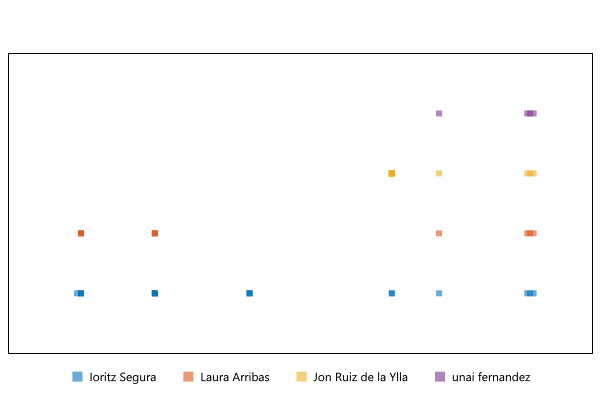
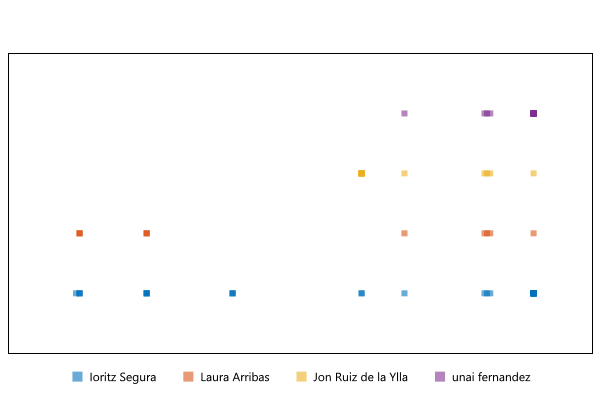
Report updated

diff --git a/Zanter/fe54f9e9/index.html b/Zanter/fe54f9e9/index.html
@@ -22,4 +22,4 @@ body
     font-family: "Segoe UI","-apple-system",BlinkMacSystemFont,Roboto,"Helvetica Neue",Helvetica,Ubuntu,Arial,sans-serif,"Apple Color Emoji","Segoe UI Emoji","Segoe UI Symbol";
     font-size: .875rem;
 }
-</style><h1>IIE</h1><div class="reportSubItem">Updated on 2023-04-19 11:29:08</div><div class="groupStats"><h2>Automobil zirkuitua</h2><div class="reportImage"><img width="350" src="0541b4df/activity-plot-Automobil-zirkuitua.png"/></div><div class="reportItem"><svg aria-labelledby="__bolt-status-131-desc" style="fill: rgba(85,163,98,1)" height="16" viewBox="0 0 16 16" width="16" xmlns="http://www.w3.org/2000/svg"><desc id="__bolt-status-131-desc">Success 20m 33s</desc><circle cx="8" cy="8" r="8"></circle><path d="M6.062 11.144l-.003-.002-1.784-1.785A.937.937 0 1 1 5.6 8.031l1.125 1.124 3.88-3.88A.937.937 0 1 1 11.931 6.6l-4.54 4.54-.004.004a.938.938 0 0 1-1.325 0z" fill="#fff"></path></svg> Eneko Agirresarobe: 25.64</div><div class="reportItem"><svg aria-labelledby="__bolt-status-104-desc" style="fill: rgba(205,74,69,1)" height="16" viewBox="0 0 16 16" width="16" xmlns="http://www.w3.org/2000/svg"><desc id="__bolt-status-104-desc">Failed 15m 19s</desc><circle cx="8" cy="8" r="8"></circle><path d="M10.984 5.004a.9.9 0 0 1 0 1.272L9.27 7.99l1.74 1.741a.9.9 0 1 1-1.272 1.273l-1.74-1.741-1.742 1.74a.9.9 0 1 1-1.272-1.272l1.74-1.74-1.713-1.714a.9.9 0 0 1 1.273-1.273l1.713 1.713 1.714-1.713a.9.9 0 0 1 1.273 0z" fill="#fff"></path></svg> id0ia: 4.42</div><div class="reportItem"><svg aria-labelledby="__bolt-status-131-desc" style="fill: rgba(85,163,98,1)" height="16" viewBox="0 0 16 16" width="16" xmlns="http://www.w3.org/2000/svg"><desc id="__bolt-status-131-desc">Success 20m 33s</desc><circle cx="8" cy="8" r="8"></circle><path d="M6.062 11.144l-.003-.002-1.784-1.785A.937.937 0 1 1 5.6 8.031l1.125 1.124 3.88-3.88A.937.937 0 1 1 11.931 6.6l-4.54 4.54-.004.004a.938.938 0 0 1-1.325 0z" fill="#fff"></path></svg> Eritz Campos: 69.94</div><br/><br/><br/><br/><br/><br/><br/><br/></div><div class="groupStats"><h2>Golf zelaia</h2><div class="reportImage"><img width="350" src="fdd45fe1/activity-plot-Golf-zelaia.png"/></div><div class="reportItem"><svg aria-labelledby="__bolt-status-131-desc" style="fill: rgba(85,163,98,1)" height="16" viewBox="0 0 16 16" width="16" xmlns="http://www.w3.org/2000/svg"><desc id="__bolt-status-131-desc">Success 20m 33s</desc><circle cx="8" cy="8" r="8"></circle><path d="M6.062 11.144l-.003-.002-1.784-1.785A.937.937 0 1 1 5.6 8.031l1.125 1.124 3.88-3.88A.937.937 0 1 1 11.931 6.6l-4.54 4.54-.004.004a.938.938 0 0 1-1.325 0z" fill="#fff"></path></svg> mikel goiogana: 51.22</div><div class="reportItem"><svg aria-labelledby="__bolt-status-104-desc" style="fill: rgba(205,74,69,1)" height="16" viewBox="0 0 16 16" width="16" xmlns="http://www.w3.org/2000/svg"><desc id="__bolt-status-104-desc">Failed 15m 19s</desc><circle cx="8" cy="8" r="8"></circle><path d="M10.984 5.004a.9.9 0 0 1 0 1.272L9.27 7.99l1.74 1.741a.9.9 0 1 1-1.272 1.273l-1.74-1.741-1.742 1.74a.9.9 0 1 1-1.272-1.272l1.74-1.74-1.713-1.714a.9.9 0 0 1 1.273-1.273l1.713 1.713 1.714-1.713a.9.9 0 0 1 1.273 0z" fill="#fff"></path></svg> Mikel MTZ ZUAZO: 4.77</div><div class="reportItem"><svg aria-labelledby="__bolt-status-131-desc" style="fill: rgba(85,163,98,1)" height="16" viewBox="0 0 16 16" width="16" xmlns="http://www.w3.org/2000/svg"><desc id="__bolt-status-131-desc">Success 20m 33s</desc><circle cx="8" cy="8" r="8"></circle><path d="M6.062 11.144l-.003-.002-1.784-1.785A.937.937 0 1 1 5.6 8.031l1.125 1.124 3.88-3.88A.937.937 0 1 1 11.931 6.6l-4.54 4.54-.004.004a.938.938 0 0 1-1.325 0z" fill="#fff"></path></svg> Ander Viteri: 44.01</div><br/><br/><br/><br/><br/><br/><br/><br/></div><div class="groupStats"><h2>Kontzertu-gunea Karrantzan</h2><div class="reportImage"><img width="350" src="666b7f03/activity-plot-Kontzertu-gunea-Karrantzan.png"/></div><div class="reportItem"><svg aria-labelledby="__bolt-status-131-desc" style="fill: rgba(85,163,98,1)" height="16" viewBox="0 0 16 16" width="16" xmlns="http://www.w3.org/2000/svg"><desc id="__bolt-status-131-desc">Success 20m 33s</desc><circle cx="8" cy="8" r="8"></circle><path d="M6.062 11.144l-.003-.002-1.784-1.785A.937.937 0 1 1 5.6 8.031l1.125 1.124 3.88-3.88A.937.937 0 1 1 11.931 6.6l-4.54 4.54-.004.004a.938.938 0 0 1-1.325 0z" fill="#fff"></path></svg> Ioritz Segura: 8.97</div><div class="reportItem"><svg aria-labelledby="__bolt-status-131-desc" style="fill: rgba(85,163,98,1)" height="16" viewBox="0 0 16 16" width="16" xmlns="http://www.w3.org/2000/svg"><desc id="__bolt-status-131-desc">Success 20m 33s</desc><circle cx="8" cy="8" r="8"></circle><path d="M6.062 11.144l-.003-.002-1.784-1.785A.937.937 0 1 1 5.6 8.031l1.125 1.124 3.88-3.88A.937.937 0 1 1 11.931 6.6l-4.54 4.54-.004.004a.938.938 0 0 1-1.325 0z" fill="#fff"></path></svg> Laura Arribas: 22.23</div><div class="reportItem"><svg aria-labelledby="__bolt-status-131-desc" style="fill: rgba(85,163,98,1)" height="16" viewBox="0 0 16 16" width="16" xmlns="http://www.w3.org/2000/svg"><desc id="__bolt-status-131-desc">Success 20m 33s</desc><circle cx="8" cy="8" r="8"></circle><path d="M6.062 11.144l-.003-.002-1.784-1.785A.937.937 0 1 1 5.6 8.031l1.125 1.124 3.88-3.88A.937.937 0 1 1 11.931 6.6l-4.54 4.54-.004.004a.938.938 0 0 1-1.325 0z" fill="#fff"></path></svg> Jon Ruiz de la Ylla: 59.14</div><div class="reportItem"><svg aria-labelledby="__bolt-status-131-desc" style="fill: rgba(85,163,98,1)" height="16" viewBox="0 0 16 16" width="16" xmlns="http://www.w3.org/2000/svg"><desc id="__bolt-status-131-desc">Success 20m 33s</desc><circle cx="8" cy="8" r="8"></circle><path d="M6.062 11.144l-.003-.002-1.784-1.785A.937.937 0 1 1 5.6 8.031l1.125 1.124 3.88-3.88A.937.937 0 1 1 11.931 6.6l-4.54 4.54-.004.004a.938.938 0 0 1-1.325 0z" fill="#fff"></path></svg> unai fernandez: 9.67</div><br/><br/><br/><br/><br/><br/><br/><br/></div></body></html>
+</style><h1>IIE</h1><div class="reportSubItem">Updated on 2023-05-04 08:47:26</div><div class="groupStats"><h2>Automobil zirkuitua</h2><div class="reportImage"><img width="350" src="0541b4df/activity-plot-Automobil-zirkuitua.png"/></div><div class="reportItem"><svg aria-labelledby="__bolt-status-131-desc" style="fill: rgba(85,163,98,1)" height="16" viewBox="0 0 16 16" width="16" xmlns="http://www.w3.org/2000/svg"><desc id="__bolt-status-131-desc">Success 20m 33s</desc><circle cx="8" cy="8" r="8"></circle><path d="M6.062 11.144l-.003-.002-1.784-1.785A.937.937 0 1 1 5.6 8.031l1.125 1.124 3.88-3.88A.937.937 0 1 1 11.931 6.6l-4.54 4.54-.004.004a.938.938 0 0 1-1.325 0z" fill="#fff"></path></svg> Eneko Agirresarobe: 24.9</div><div class="reportItem"><svg aria-labelledby="__bolt-status-104-desc" style="fill: rgba(205,74,69,1)" height="16" viewBox="0 0 16 16" width="16" xmlns="http://www.w3.org/2000/svg"><desc id="__bolt-status-104-desc">Failed 15m 19s</desc><circle cx="8" cy="8" r="8"></circle><path d="M10.984 5.004a.9.9 0 0 1 0 1.272L9.27 7.99l1.74 1.741a.9.9 0 1 1-1.272 1.273l-1.74-1.741-1.742 1.74a.9.9 0 1 1-1.272-1.272l1.74-1.74-1.713-1.714a.9.9 0 0 1 1.273-1.273l1.713 1.713 1.714-1.713a.9.9 0 0 1 1.273 0z" fill="#fff"></path></svg> id0ia: 2.9</div><div class="reportItem"><svg aria-labelledby="__bolt-status-131-desc" style="fill: rgba(85,163,98,1)" height="16" viewBox="0 0 16 16" width="16" xmlns="http://www.w3.org/2000/svg"><desc id="__bolt-status-131-desc">Success 20m 33s</desc><circle cx="8" cy="8" r="8"></circle><path d="M6.062 11.144l-.003-.002-1.784-1.785A.937.937 0 1 1 5.6 8.031l1.125 1.124 3.88-3.88A.937.937 0 1 1 11.931 6.6l-4.54 4.54-.004.004a.938.938 0 0 1-1.325 0z" fill="#fff"></path></svg> Eritz Campos: 72.21</div><br/><br/><br/><br/><br/><br/><br/><br/></div><div class="groupStats"><h2>Golf zelaia</h2><div class="reportImage"><img width="350" src="fdd45fe1/activity-plot-Golf-zelaia.png"/></div><div class="reportItem"><svg aria-labelledby="__bolt-status-131-desc" style="fill: rgba(85,163,98,1)" height="16" viewBox="0 0 16 16" width="16" xmlns="http://www.w3.org/2000/svg"><desc id="__bolt-status-131-desc">Success 20m 33s</desc><circle cx="8" cy="8" r="8"></circle><path d="M6.062 11.144l-.003-.002-1.784-1.785A.937.937 0 1 1 5.6 8.031l1.125 1.124 3.88-3.88A.937.937 0 1 1 11.931 6.6l-4.54 4.54-.004.004a.938.938 0 0 1-1.325 0z" fill="#fff"></path></svg> mikel goiogana: 34.09</div><div class="reportItem"><svg aria-labelledby="__bolt-status-104-desc" style="fill: rgba(205,74,69,1)" height="16" viewBox="0 0 16 16" width="16" xmlns="http://www.w3.org/2000/svg"><desc id="__bolt-status-104-desc">Failed 15m 19s</desc><circle cx="8" cy="8" r="8"></circle><path d="M10.984 5.004a.9.9 0 0 1 0 1.272L9.27 7.99l1.74 1.741a.9.9 0 1 1-1.272 1.273l-1.74-1.741-1.742 1.74a.9.9 0 1 1-1.272-1.272l1.74-1.74-1.713-1.714a.9.9 0 0 1 1.273-1.273l1.713 1.713 1.714-1.713a.9.9 0 0 1 1.273 0z" fill="#fff"></path></svg> Mikel MTZ ZUAZO: 2.78</div><div class="reportItem"><svg aria-labelledby="__bolt-status-131-desc" style="fill: rgba(85,163,98,1)" height="16" viewBox="0 0 16 16" width="16" xmlns="http://www.w3.org/2000/svg"><desc id="__bolt-status-131-desc">Success 20m 33s</desc><circle cx="8" cy="8" r="8"></circle><path d="M6.062 11.144l-.003-.002-1.784-1.785A.937.937 0 1 1 5.6 8.031l1.125 1.124 3.88-3.88A.937.937 0 1 1 11.931 6.6l-4.54 4.54-.004.004a.938.938 0 0 1-1.325 0z" fill="#fff"></path></svg> Ander Viteri: 62.9</div><div class="reportItem"><svg aria-labelledby="__bolt-status-104-desc" style="fill: rgba(205,74,69,1)" height="16" viewBox="0 0 16 16" width="16" xmlns="http://www.w3.org/2000/svg"><desc id="__bolt-status-104-desc">Failed 15m 19s</desc><circle cx="8" cy="8" r="8"></circle><path d="M10.984 5.004a.9.9 0 0 1 0 1.272L9.27 7.99l1.74 1.741a.9.9 0 1 1-1.272 1.273l-1.74-1.741-1.742 1.74a.9.9 0 1 1-1.272-1.272l1.74-1.74-1.713-1.714a.9.9 0 0 1 1.273-1.273l1.713 1.713 1.714-1.713a.9.9 0 0 1 1.273 0z" fill="#fff"></path></svg> ibai llosa garcia: 0.22</div><br/><br/><br/><br/><br/><br/><br/><br/></div><div class="groupStats"><h2>Kontzertu-gunea Karrantzan</h2><div class="reportImage"><img width="350" src="666b7f03/activity-plot-Kontzertu-gunea-Karrantzan.png"/></div><div class="reportItem"><svg aria-labelledby="__bolt-status-131-desc" style="fill: rgba(85,163,98,1)" height="16" viewBox="0 0 16 16" width="16" xmlns="http://www.w3.org/2000/svg"><desc id="__bolt-status-131-desc">Success 20m 33s</desc><circle cx="8" cy="8" r="8"></circle><path d="M6.062 11.144l-.003-.002-1.784-1.785A.937.937 0 1 1 5.6 8.031l1.125 1.124 3.88-3.88A.937.937 0 1 1 11.931 6.6l-4.54 4.54-.004.004a.938.938 0 0 1-1.325 0z" fill="#fff"></path></svg> Ioritz Segura: 8.09</div><div class="reportItem"><svg aria-labelledby="__bolt-status-131-desc" style="fill: rgba(85,163,98,1)" height="16" viewBox="0 0 16 16" width="16" xmlns="http://www.w3.org/2000/svg"><desc id="__bolt-status-131-desc">Success 20m 33s</desc><circle cx="8" cy="8" r="8"></circle><path d="M6.062 11.144l-.003-.002-1.784-1.785A.937.937 0 1 1 5.6 8.031l1.125 1.124 3.88-3.88A.937.937 0 1 1 11.931 6.6l-4.54 4.54-.004.004a.938.938 0 0 1-1.325 0z" fill="#fff"></path></svg> Laura Arribas: 35.5</div><div class="reportItem"><svg aria-labelledby="__bolt-status-131-desc" style="fill: rgba(85,163,98,1)" height="16" viewBox="0 0 16 16" width="16" xmlns="http://www.w3.org/2000/svg"><desc id="__bolt-status-131-desc">Success 20m 33s</desc><circle cx="8" cy="8" r="8"></circle><path d="M6.062 11.144l-.003-.002-1.784-1.785A.937.937 0 1 1 5.6 8.031l1.125 1.124 3.88-3.88A.937.937 0 1 1 11.931 6.6l-4.54 4.54-.004.004a.938.938 0 0 1-1.325 0z" fill="#fff"></path></svg> Jon Ruiz de la Ylla: 47.56</div><div class="reportItem"><svg aria-labelledby="__bolt-status-131-desc" style="fill: rgba(85,163,98,1)" height="16" viewBox="0 0 16 16" width="16" xmlns="http://www.w3.org/2000/svg"><desc id="__bolt-status-131-desc">Success 20m 33s</desc><circle cx="8" cy="8" r="8"></circle><path d="M6.062 11.144l-.003-.002-1.784-1.785A.937.937 0 1 1 5.6 8.031l1.125 1.124 3.88-3.88A.937.937 0 1 1 11.931 6.6l-4.54 4.54-.004.004a.938.938 0 0 1-1.325 0z" fill="#fff"></path></svg> unai fernandez: 8.86</div><br/><br/><br/><br/><br/><br/><br/><br/></div></body></html>

diff --git a/Zanter/fe54f9e9/666b7f03/index.html b/Zanter/fe54f9e9/666b7f03/index.html
@@ -22,4 +22,4 @@ body
     font-family: "Segoe UI","-apple-system",BlinkMacSystemFont,Roboto,"Helvetica Neue",Helvetica,Ubuntu,Arial,sans-serif,"Apple Color Emoji","Segoe UI Emoji","Segoe UI Symbol";
     font-size: .875rem;
 }
-</style><h1>IIE</h1><div class="reportSubItem">Updated on 2023-04-19 11:29:08</div><div class="groupStats"><h2>Kontzertu-gunea Karrantzan</h2><div class="reportImage"><img width="350" src="activity-plot-Kontzertu-gunea-Karrantzan.png"/></div><div class="reportItem"><svg aria-labelledby="__bolt-status-131-desc" style="fill: rgba(85,163,98,1)" height="16" viewBox="0 0 16 16" width="16" xmlns="http://www.w3.org/2000/svg"><desc id="__bolt-status-131-desc">Success 20m 33s</desc><circle cx="8" cy="8" r="8"></circle><path d="M6.062 11.144l-.003-.002-1.784-1.785A.937.937 0 1 1 5.6 8.031l1.125 1.124 3.88-3.88A.937.937 0 1 1 11.931 6.6l-4.54 4.54-.004.004a.938.938 0 0 1-1.325 0z" fill="#fff"></path></svg> Ioritz Segura: 8.97</div><div class="reportItem"><svg aria-labelledby="__bolt-status-131-desc" style="fill: rgba(85,163,98,1)" height="16" viewBox="0 0 16 16" width="16" xmlns="http://www.w3.org/2000/svg"><desc id="__bolt-status-131-desc">Success 20m 33s</desc><circle cx="8" cy="8" r="8"></circle><path d="M6.062 11.144l-.003-.002-1.784-1.785A.937.937 0 1 1 5.6 8.031l1.125 1.124 3.88-3.88A.937.937 0 1 1 11.931 6.6l-4.54 4.54-.004.004a.938.938 0 0 1-1.325 0z" fill="#fff"></path></svg> Laura Arribas: 22.23</div><div class="reportItem"><svg aria-labelledby="__bolt-status-131-desc" style="fill: rgba(85,163,98,1)" height="16" viewBox="0 0 16 16" width="16" xmlns="http://www.w3.org/2000/svg"><desc id="__bolt-status-131-desc">Success 20m 33s</desc><circle cx="8" cy="8" r="8"></circle><path d="M6.062 11.144l-.003-.002-1.784-1.785A.937.937 0 1 1 5.6 8.031l1.125 1.124 3.88-3.88A.937.937 0 1 1 11.931 6.6l-4.54 4.54-.004.004a.938.938 0 0 1-1.325 0z" fill="#fff"></path></svg> Jon Ruiz de la Ylla: 59.14</div><div class="reportItem"><svg aria-labelledby="__bolt-status-131-desc" style="fill: rgba(85,163,98,1)" height="16" viewBox="0 0 16 16" width="16" xmlns="http://www.w3.org/2000/svg"><desc id="__bolt-status-131-desc">Success 20m 33s</desc><circle cx="8" cy="8" r="8"></circle><path d="M6.062 11.144l-.003-.002-1.784-1.785A.937.937 0 1 1 5.6 8.031l1.125 1.124 3.88-3.88A.937.937 0 1 1 11.931 6.6l-4.54 4.54-.004.004a.938.938 0 0 1-1.325 0z" fill="#fff"></path></svg> unai fernandez: 9.67</div><br/><br/><br/><br/><br/><br/><br/><br/></div></body></html>
+</style><h1>IIE</h1><div class="reportSubItem">Updated on 2023-05-04 08:47:26</div><div class="groupStats"><h2>Kontzertu-gunea Karrantzan</h2><div class="reportImage"><img width="350" src="activity-plot-Kontzertu-gunea-Karrantzan.png"/></div><div class="reportItem"><svg aria-labelledby="__bolt-status-131-desc" style="fill: rgba(85,163,98,1)" height="16" viewBox="0 0 16 16" width="16" xmlns="http://www.w3.org/2000/svg"><desc id="__bolt-status-131-desc">Success 20m 33s</desc><circle cx="8" cy="8" r="8"></circle><path d="M6.062 11.144l-.003-.002-1.784-1.785A.937.937 0 1 1 5.6 8.031l1.125 1.124 3.88-3.88A.937.937 0 1 1 11.931 6.6l-4.54 4.54-.004.004a.938.938 0 0 1-1.325 0z" fill="#fff"></path></svg> Ioritz Segura: 8.09</div><div class="reportItem"><svg aria-labelledby="__bolt-status-131-desc" style="fill: rgba(85,163,98,1)" height="16" viewBox="0 0 16 16" width="16" xmlns="http://www.w3.org/2000/svg"><desc id="__bolt-status-131-desc">Success 20m 33s</desc><circle cx="8" cy="8" r="8"></circle><path d="M6.062 11.144l-.003-.002-1.784-1.785A.937.937 0 1 1 5.6 8.031l1.125 1.124 3.88-3.88A.937.937 0 1 1 11.931 6.6l-4.54 4.54-.004.004a.938.938 0 0 1-1.325 0z" fill="#fff"></path></svg> Laura Arribas: 35.5</div><div class="reportItem"><svg aria-labelledby="__bolt-status-131-desc" style="fill: rgba(85,163,98,1)" height="16" viewBox="0 0 16 16" width="16" xmlns="http://www.w3.org/2000/svg"><desc id="__bolt-status-131-desc">Success 20m 33s</desc><circle cx="8" cy="8" r="8"></circle><path d="M6.062 11.144l-.003-.002-1.784-1.785A.937.937 0 1 1 5.6 8.031l1.125 1.124 3.88-3.88A.937.937 0 1 1 11.931 6.6l-4.54 4.54-.004.004a.938.938 0 0 1-1.325 0z" fill="#fff"></path></svg> Jon Ruiz de la Ylla: 47.56</div><div class="reportItem"><svg aria-labelledby="__bolt-status-131-desc" style="fill: rgba(85,163,98,1)" height="16" viewBox="0 0 16 16" width="16" xmlns="http://www.w3.org/2000/svg"><desc id="__bolt-status-131-desc">Success 20m 33s</desc><circle cx="8" cy="8" r="8"></circle><path d="M6.062 11.144l-.003-.002-1.784-1.785A.937.937 0 1 1 5.6 8.031l1.125 1.124 3.88-3.88A.937.937 0 1 1 11.931 6.6l-4.54 4.54-.004.004a.938.938 0 0 1-1.325 0z" fill="#fff"></path></svg> unai fernandez: 8.86</div><br/><br/><br/><br/><br/><br/><br/><br/></div></body></html>

diff --git a/Zanter/fe54f9e9/fdd45fe1/index.html b/Zanter/fe54f9e9/fdd45fe1/index.html
@@ -22,4 +22,4 @@ body
     font-family: "Segoe UI","-apple-system",BlinkMacSystemFont,Roboto,"Helvetica Neue",Helvetica,Ubuntu,Arial,sans-serif,"Apple Color Emoji","Segoe UI Emoji","Segoe UI Symbol";
     font-size: .875rem;
 }
-</style><h1>IIE</h1><div class="reportSubItem">Updated on 2023-04-19 11:29:01</div><div class="groupStats"><h2>Golf zelaia</h2><div class="reportImage"><img width="350" src="activity-plot-Golf-zelaia.png"/></div><div class="reportItem"><svg aria-labelledby="__bolt-status-131-desc" style="fill: rgba(85,163,98,1)" height="16" viewBox="0 0 16 16" width="16" xmlns="http://www.w3.org/2000/svg"><desc id="__bolt-status-131-desc">Success 20m 33s</desc><circle cx="8" cy="8" r="8"></circle><path d="M6.062 11.144l-.003-.002-1.784-1.785A.937.937 0 1 1 5.6 8.031l1.125 1.124 3.88-3.88A.937.937 0 1 1 11.931 6.6l-4.54 4.54-.004.004a.938.938 0 0 1-1.325 0z" fill="#fff"></path></svg> mikel goiogana: 51.22</div><div class="reportItem"><svg aria-labelledby="__bolt-status-104-desc" style="fill: rgba(205,74,69,1)" height="16" viewBox="0 0 16 16" width="16" xmlns="http://www.w3.org/2000/svg"><desc id="__bolt-status-104-desc">Failed 15m 19s</desc><circle cx="8" cy="8" r="8"></circle><path d="M10.984 5.004a.9.9 0 0 1 0 1.272L9.27 7.99l1.74 1.741a.9.9 0 1 1-1.272 1.273l-1.74-1.741-1.742 1.74a.9.9 0 1 1-1.272-1.272l1.74-1.74-1.713-1.714a.9.9 0 0 1 1.273-1.273l1.713 1.713 1.714-1.713a.9.9 0 0 1 1.273 0z" fill="#fff"></path></svg> Mikel MTZ ZUAZO: 4.77</div><div class="reportItem"><svg aria-labelledby="__bolt-status-131-desc" style="fill: rgba(85,163,98,1)" height="16" viewBox="0 0 16 16" width="16" xmlns="http://www.w3.org/2000/svg"><desc id="__bolt-status-131-desc">Success 20m 33s</desc><circle cx="8" cy="8" r="8"></circle><path d="M6.062 11.144l-.003-.002-1.784-1.785A.937.937 0 1 1 5.6 8.031l1.125 1.124 3.88-3.88A.937.937 0 1 1 11.931 6.6l-4.54 4.54-.004.004a.938.938 0 0 1-1.325 0z" fill="#fff"></path></svg> Ander Viteri: 44.01</div><br/><br/><br/><br/><br/><br/><br/><br/></div></body></html>
+</style><h1>IIE</h1><div class="reportSubItem">Updated on 2023-05-04 08:47:17</div><div class="groupStats"><h2>Golf zelaia</h2><div class="reportImage"><img width="350" src="activity-plot-Golf-zelaia.png"/></div><div class="reportItem"><svg aria-labelledby="__bolt-status-131-desc" style="fill: rgba(85,163,98,1)" height="16" viewBox="0 0 16 16" width="16" xmlns="http://www.w3.org/2000/svg"><desc id="__bolt-status-131-desc">Success 20m 33s</desc><circle cx="8" cy="8" r="8"></circle><path d="M6.062 11.144l-.003-.002-1.784-1.785A.937.937 0 1 1 5.6 8.031l1.125 1.124 3.88-3.88A.937.937 0 1 1 11.931 6.6l-4.54 4.54-.004.004a.938.938 0 0 1-1.325 0z" fill="#fff"></path></svg> mikel goiogana: 34.09</div><div class="reportItem"><svg aria-labelledby="__bolt-status-104-desc" style="fill: rgba(205,74,69,1)" height="16" viewBox="0 0 16 16" width="16" xmlns="http://www.w3.org/2000/svg"><desc id="__bolt-status-104-desc">Failed 15m 19s</desc><circle cx="8" cy="8" r="8"></circle><path d="M10.984 5.004a.9.9 0 0 1 0 1.272L9.27 7.99l1.74 1.741a.9.9 0 1 1-1.272 1.273l-1.74-1.741-1.742 1.74a.9.9 0 1 1-1.272-1.272l1.74-1.74-1.713-1.714a.9.9 0 0 1 1.273-1.273l1.713 1.713 1.714-1.713a.9.9 0 0 1 1.273 0z" fill="#fff"></path></svg> Mikel MTZ ZUAZO: 2.78</div><div class="reportItem"><svg aria-labelledby="__bolt-status-131-desc" style="fill: rgba(85,163,98,1)" height="16" viewBox="0 0 16 16" width="16" xmlns="http://www.w3.org/2000/svg"><desc id="__bolt-status-131-desc">Success 20m 33s</desc><circle cx="8" cy="8" r="8"></circle><path d="M6.062 11.144l-.003-.002-1.784-1.785A.937.937 0 1 1 5.6 8.031l1.125 1.124 3.88-3.88A.937.937 0 1 1 11.931 6.6l-4.54 4.54-.004.004a.938.938 0 0 1-1.325 0z" fill="#fff"></path></svg> Ander Viteri: 62.9</div><div class="reportItem"><svg aria-labelledby="__bolt-status-104-desc" style="fill: rgba(205,74,69,1)" height="16" viewBox="0 0 16 16" width="16" xmlns="http://www.w3.org/2000/svg"><desc id="__bolt-status-104-desc">Failed 15m 19s</desc><circle cx="8" cy="8" r="8"></circle><path d="M10.984 5.004a.9.9 0 0 1 0 1.272L9.27 7.99l1.74 1.741a.9.9 0 1 1-1.272 1.273l-1.74-1.741-1.742 1.74a.9.9 0 1 1-1.272-1.272l1.74-1.74-1.713-1.714a.9.9 0 0 1 1.273-1.273l1.713 1.713 1.714-1.713a.9.9 0 0 1 1.273 0z" fill="#fff"></path></svg> ibai llosa garcia: 0.22</div><br/><br/><br/><br/><br/><br/><br/><br/></div></body></html>

diff --git a/Zanter/fe54f9e9/0541b4df/index.html b/Zanter/fe54f9e9/0541b4df/index.html
@@ -22,4 +22,4 @@ body
     font-family: "Segoe UI","-apple-system",BlinkMacSystemFont,Roboto,"Helvetica Neue",Helvetica,Ubuntu,Arial,sans-serif,"Apple Color Emoji","Segoe UI Emoji","Segoe UI Symbol";
     font-size: .875rem;
 }
-</style><h1>IIE</h1><div class="reportSubItem">Updated on 2023-04-19 11:28:56</div><div class="groupStats"><h2>Automobil zirkuitua</h2><div class="reportImage"><img width="350" src="activity-plot-Automobil-zirkuitua.png"/></div><div class="reportItem"><svg aria-labelledby="__bolt-status-131-desc" style="fill: rgba(85,163,98,1)" height="16" viewBox="0 0 16 16" width="16" xmlns="http://www.w3.org/2000/svg"><desc id="__bolt-status-131-desc">Success 20m 33s</desc><circle cx="8" cy="8" r="8"></circle><path d="M6.062 11.144l-.003-.002-1.784-1.785A.937.937 0 1 1 5.6 8.031l1.125 1.124 3.88-3.88A.937.937 0 1 1 11.931 6.6l-4.54 4.54-.004.004a.938.938 0 0 1-1.325 0z" fill="#fff"></path></svg> Eneko Agirresarobe: 25.64</div><div class="reportItem"><svg aria-labelledby="__bolt-status-104-desc" style="fill: rgba(205,74,69,1)" height="16" viewBox="0 0 16 16" width="16" xmlns="http://www.w3.org/2000/svg"><desc id="__bolt-status-104-desc">Failed 15m 19s</desc><circle cx="8" cy="8" r="8"></circle><path d="M10.984 5.004a.9.9 0 0 1 0 1.272L9.27 7.99l1.74 1.741a.9.9 0 1 1-1.272 1.273l-1.74-1.741-1.742 1.74a.9.9 0 1 1-1.272-1.272l1.74-1.74-1.713-1.714a.9.9 0 0 1 1.273-1.273l1.713 1.713 1.714-1.713a.9.9 0 0 1 1.273 0z" fill="#fff"></path></svg> id0ia: 4.42</div><div class="reportItem"><svg aria-labelledby="__bolt-status-131-desc" style="fill: rgba(85,163,98,1)" height="16" viewBox="0 0 16 16" width="16" xmlns="http://www.w3.org/2000/svg"><desc id="__bolt-status-131-desc">Success 20m 33s</desc><circle cx="8" cy="8" r="8"></circle><path d="M6.062 11.144l-.003-.002-1.784-1.785A.937.937 0 1 1 5.6 8.031l1.125 1.124 3.88-3.88A.937.937 0 1 1 11.931 6.6l-4.54 4.54-.004.004a.938.938 0 0 1-1.325 0z" fill="#fff"></path></svg> Eritz Campos: 69.94</div><br/><br/><br/><br/><br/><br/><br/><br/></div></body></html>
+</style><h1>IIE</h1><div class="reportSubItem">Updated on 2023-05-04 08:47:09</div><div class="groupStats"><h2>Automobil zirkuitua</h2><div class="reportImage"><img width="350" src="activity-plot-Automobil-zirkuitua.png"/></div><div class="reportItem"><svg aria-labelledby="__bolt-status-131-desc" style="fill: rgba(85,163,98,1)" height="16" viewBox="0 0 16 16" width="16" xmlns="http://www.w3.org/2000/svg"><desc id="__bolt-status-131-desc">Success 20m 33s</desc><circle cx="8" cy="8" r="8"></circle><path d="M6.062 11.144l-.003-.002-1.784-1.785A.937.937 0 1 1 5.6 8.031l1.125 1.124 3.88-3.88A.937.937 0 1 1 11.931 6.6l-4.54 4.54-.004.004a.938.938 0 0 1-1.325 0z" fill="#fff"></path></svg> Eneko Agirresarobe: 24.9</div><div class="reportItem"><svg aria-labelledby="__bolt-status-104-desc" style="fill: rgba(205,74,69,1)" height="16" viewBox="0 0 16 16" width="16" xmlns="http://www.w3.org/2000/svg"><desc id="__bolt-status-104-desc">Failed 15m 19s</desc><circle cx="8" cy="8" r="8"></circle><path d="M10.984 5.004a.9.9 0 0 1 0 1.272L9.27 7.99l1.74 1.741a.9.9 0 1 1-1.272 1.273l-1.74-1.741-1.742 1.74a.9.9 0 1 1-1.272-1.272l1.74-1.74-1.713-1.714a.9.9 0 0 1 1.273-1.273l1.713 1.713 1.714-1.713a.9.9 0 0 1 1.273 0z" fill="#fff"></path></svg> id0ia: 2.9</div><div class="reportItem"><svg aria-labelledby="__bolt-status-131-desc" style="fill: rgba(85,163,98,1)" height="16" viewBox="0 0 16 16" width="16" xmlns="http://www.w3.org/2000/svg"><desc id="__bolt-status-131-desc">Success 20m 33s</desc><circle cx="8" cy="8" r="8"></circle><path d="M6.062 11.144l-.003-.002-1.784-1.785A.937.937 0 1 1 5.6 8.031l1.125 1.124 3.88-3.88A.937.937 0 1 1 11.931 6.6l-4.54 4.54-.004.004a.938.938 0 0 1-1.325 0z" fill="#fff"></path></svg> Eritz Campos: 72.21</div><br/><br/><br/><br/><br/><br/><br/><br/></div></body></html>
